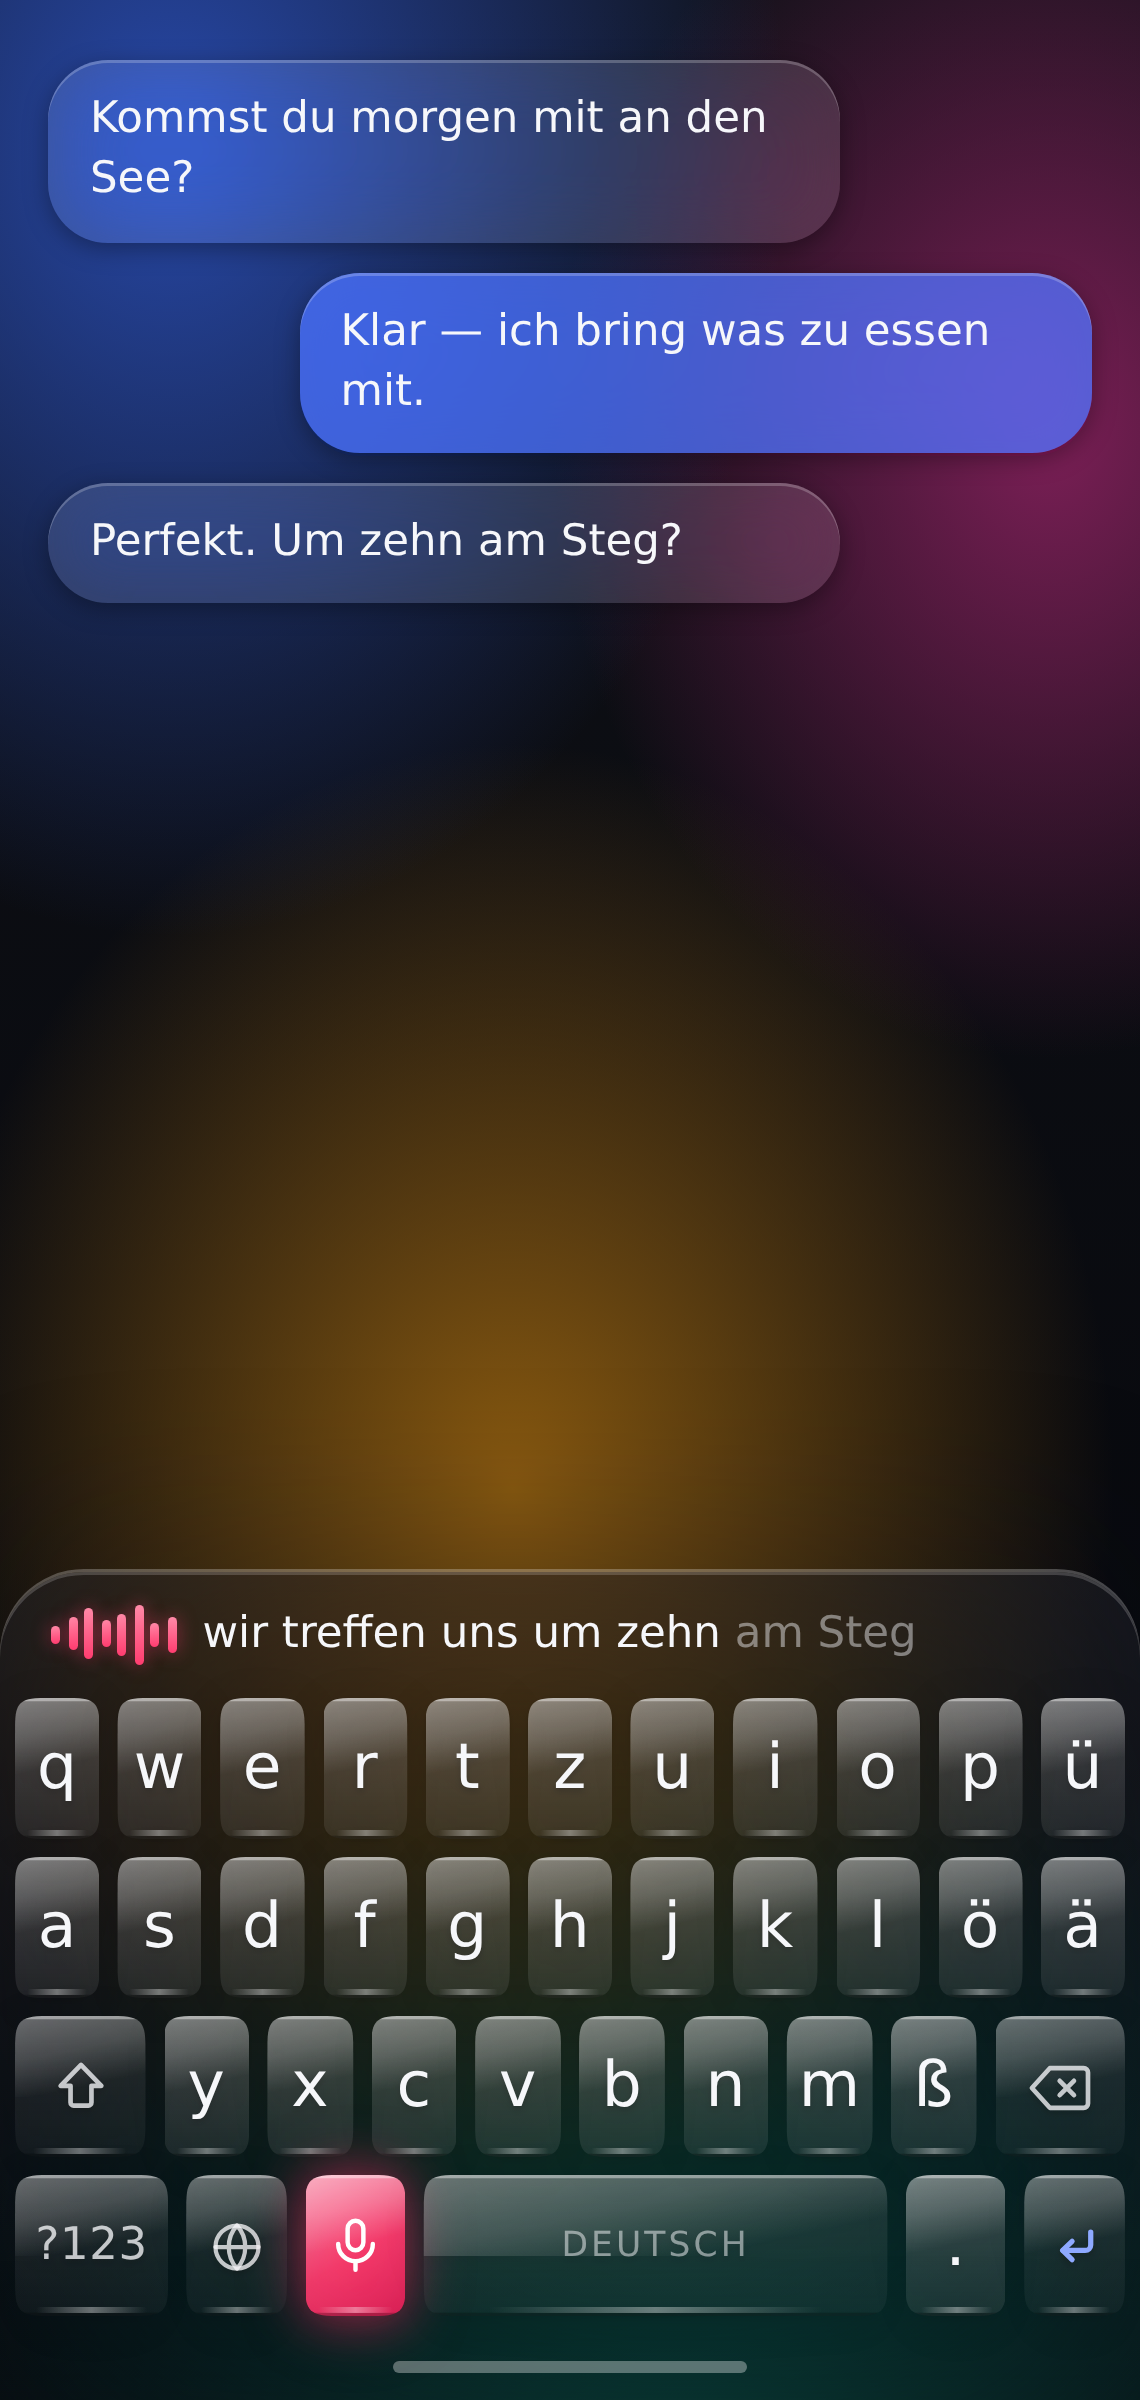
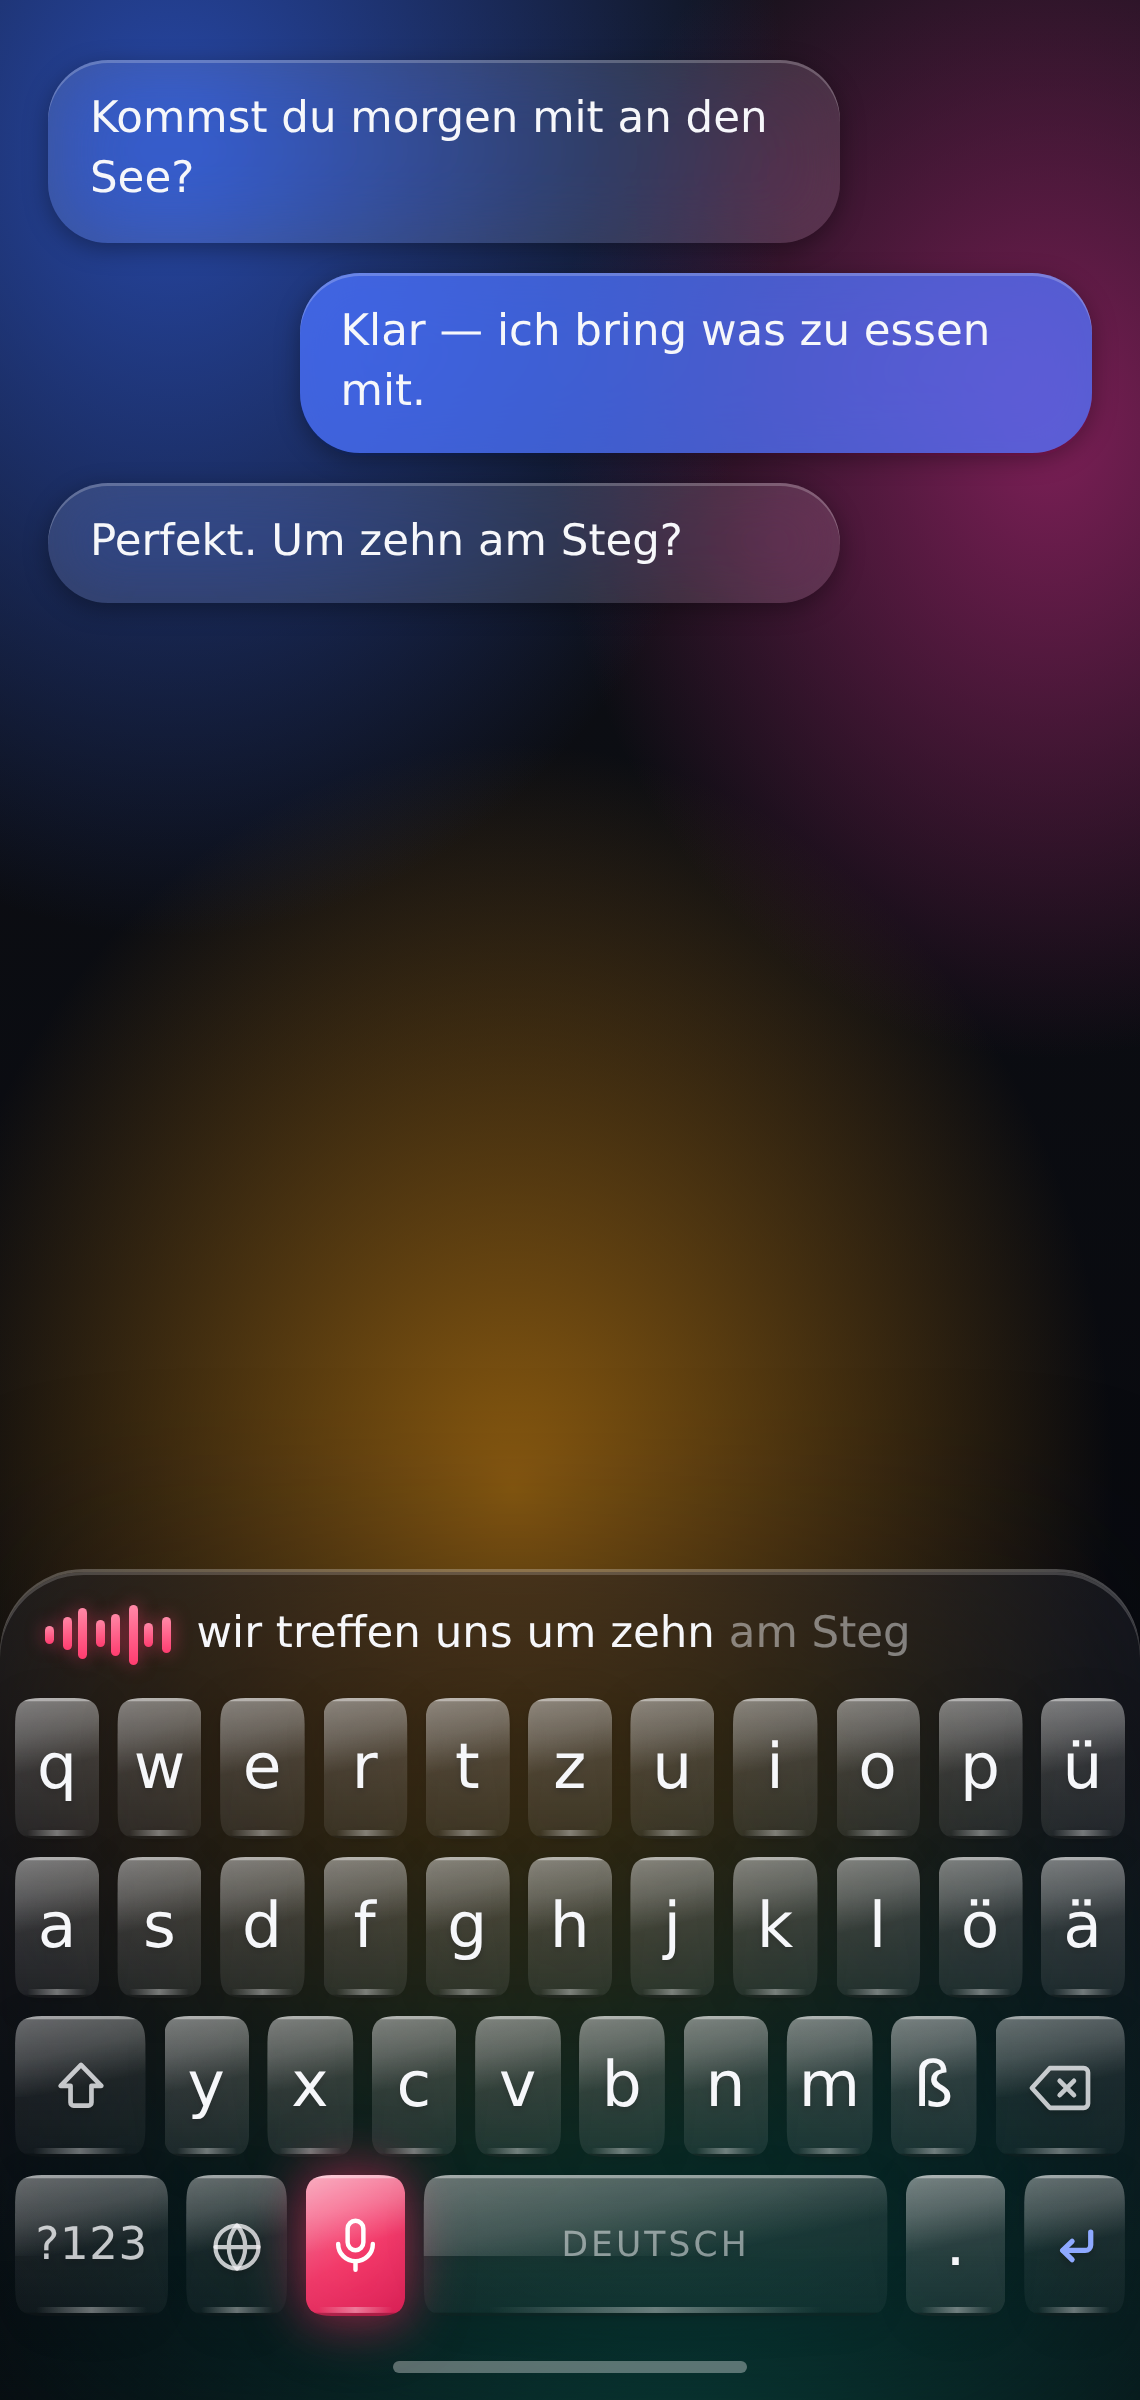
Entwurf: keine Vorschläge zeigen, die es nicht gibt
Die Leiste im Entwurf trug drei Wortvorschläge. Ein Wörterbuch steht aber
nicht dahinter, und die App zeigt dort den Stand des Diktats. Eine Vorlage,
die mehr verspricht als die Sache selbst, ist keine Vorlage.

Claude-Session: https://claude.ai/code/session_01HXr9rkkX2YyvGEqy9cE6NK

Changed region(s): [[0.1842, 0.6562, 0.7982, 0.6875], [0.0307, 0.6562, 0.1535, 0.6875]]

diff --git a/entwurf/tastatur-entwurf.html b/entwurf/tastatur-entwurf.html
@@ -130,20 +130,14 @@
     height: var(--leiste); display: flex; align-items: center;
     padding: 0 4px; gap: 0; font-size: 14px; color: var(--schrift);
   }
-  .vorschlag {
-    flex: 1 1 0; text-align: center; padding: 6px 4px;
+  .hinweis {
+    padding: 0 8px; font-size: 14.5px; color: var(--schrift-neben);
     white-space: nowrap; overflow: hidden; text-overflow: ellipsis;
-    position: relative;
   }
-  .vorschlag + .vorschlag::before {
-    content: ""; position: absolute; left: 0; top: 22%; bottom: 22%;
-    width: 1px; background: var(--trenner);
-  }
-  .vorschlag.stark { font-weight: 600; }
 
-  .diktatzeile { display: none; align-items: center; gap: 9px; width: 100%; padding: 0 8px; }
+  .diktatzeile { display: none; align-items: center; gap: 9px; width: 100%; padding: 0 6px; }
   [data-zustand="diktat"] .diktatzeile { display: flex; }
-  [data-zustand="diktat"] .vorschlag { display: none; }
+  [data-zustand="diktat"] .hinweis { display: none; }
   .diktattext {
     flex: 1; white-space: nowrap; overflow: hidden; text-overflow: ellipsis;
     font-size: 14.5px;
@@ -287,10 +281,12 @@
 </div>
 
 <div class="tastatur" id="tastatur">
+  <!-- Keine Wortvorschläge: es gibt kein Wörterbuch dahinter, und eine
+       Leiste mit erfundenen Vorschlägen verspricht etwas, das die Tastatur
+       nicht kann. Im Ruhezustand steht dort der Hinweis, beim Diktieren der
+       Zwischenstand. -->
   <div class="leiste">
-    <span class="vorschlag">Um</span>
-    <span class="vorschlag stark">Ja</span>
-    <span class="vorschlag">Passt</span>
+    <span class="hinweis">Zum Diktieren auf das Mikrofon tippen</span>
     <span class="diktatzeile">
       <span class="pegel" id="pegel"></span>
       <span class="diktattext">wir treffen uns um zehn <em>am Steg</em></span>
